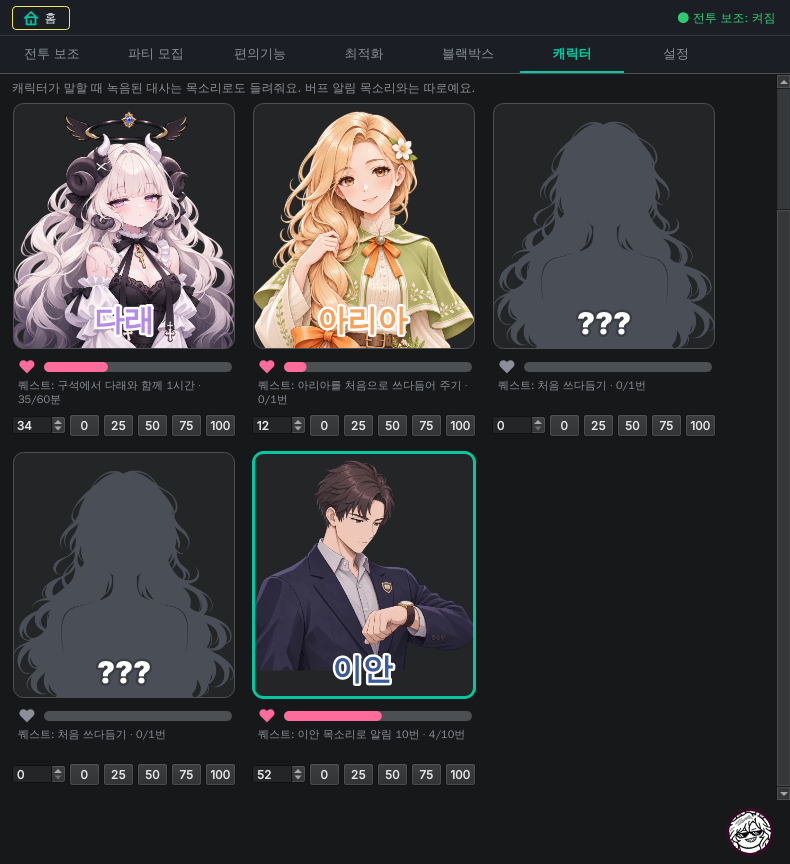
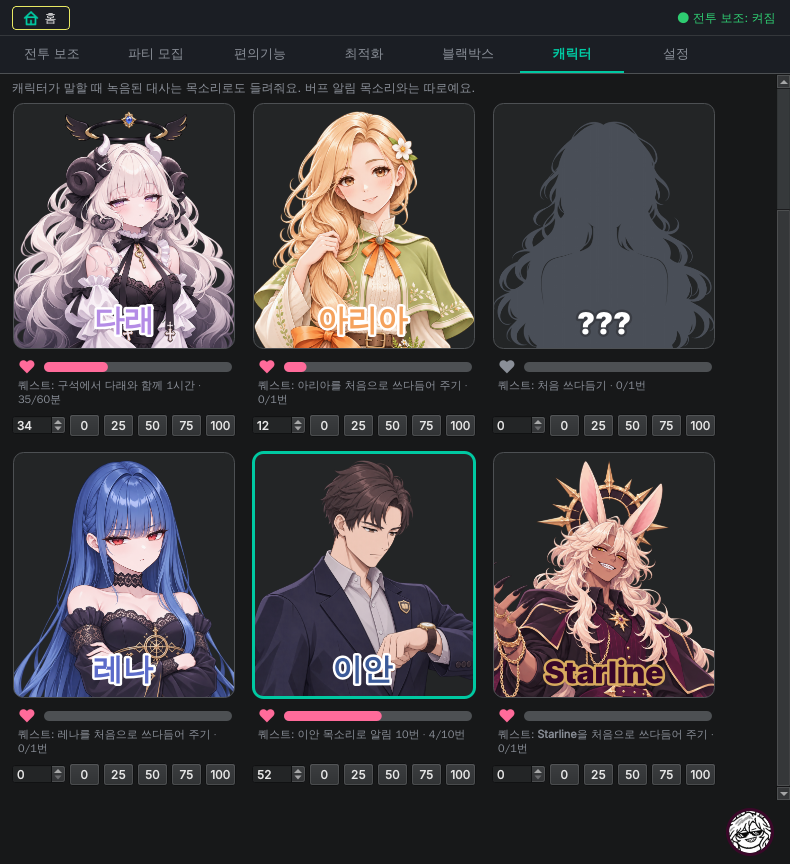
캐릭터 알파: 이안 카드를 세로 비율로 잘라 아래까지 채움
Claude-Session: https://claude.ai/code/session_01SbFuD9LBQUw7gFTz2Mmv9g

diff --git a/scripts/build_ian_frames.py b/scripts/build_ian_frames.py
@@ -79,7 +79,15 @@ EXPECTED = {"stand": 2, "watch": 4, "walk": 6, "pet": 6, "drag": 4, "fall": 2, "
 
 
 def card() -> np.ndarray:
+    """상반신이 가로형이라(폭 맞춤하면 카드 아래가 비어 보임 — 사용자 11-24 Windows) 얼굴(위 45% 알파 무게중심 x)
+    가운데로 다른 카드와 같은 세로 비율(1199:1312)로 자름(레나·Starline과 같은 방식)."""
     art = _tight(imread(ROOT / "docs/characters/assets/이안/이안_상반신.png", cv2.IMREAD_UNCHANGED))
+    h, w = art.shape[:2]
+    cw = int(round(h * 1199 / 1312))
+    if w > cw:
+        cx = float(np.where(art[: int(h * 0.45), :, 3] > 40)[1].mean())
+        x0 = int(min(max(0, cx - cw / 2), w - cw))
+        art = _tight(art[:, x0:x0 + cw])
     return scaled(art, 480 / art.shape[0])
 
 

diff --git a/tests/test_character.py b/tests/test_character.py
@@ -1687,3 +1687,15 @@ def test_starline_click_and_land_show_one_picture_at_a_time(app):
             assert len(w.layers(clock["t"])) == 1
     finally:
         w.close()
+
+
+def test_known_cards_fill_down_to_card_bottom():
+    """카드 그림(폭 맞춤·위 8px)이 카드 아래 끝까지 덮음 — 가로형 상반신이면 아래가 비어 보임(사용자 11-24 이안)."""
+    from mabinogi_addon.ui import character_tab as ct
+
+    width, bottom = ct.CARD_W - 3, 1.5 + ct.CARD_H - 3
+    for c in roster.ROSTER:
+        if not c.known:
+            continue
+        art = _img_of(ASSETS / c.card)
+        assert 1.5 + 8 + art.shape[0] * width / art.shape[1] >= bottom, c.name

diff --git a/docs/status.md b/docs/status.md
@@ -56,6 +56,7 @@
   - **이안 투아림 2차 TTS — DEV 전송(11-24, 기획 세션)**: 이안 목소리는 gen_tts.py Google(Chirp3-HD-Algieba) 생성으로 확인 → 사용자 '그대로, 투아림 2차만' → gen_tts.py에 F_TUARIM2·이안 2차 문장·`--only` 옵션. DEV(session_01SbFuD9LBQUw7gFTz2Mmv9g)에 전송.
   - **0.55.9 Windows 실측 4건 — DEV(11-24, QA 요청, 후보 45437255875 기준)**: ① 펫이 미러링 뒤 → `overlay_capture.keep_pet_front`(PetWindow 생성자 등록), 오버레이가 뜨거나 raise_overlay될 때 보이는 펫 → 커서 순으로 bring_to_front(커서가 맨 위, 숨은 펫 제외, NOACTIVATE 그대로). ②③ Starline 클릭·착지 잔상·헤일로 여러 개 = 덮기 전환(앞 그림 1.0 위에 새 그림 0→1 0.13초)이 후광 가시·자세가 다른 두 그림을 겹쳐 그린 것(시트 분리 오류 아님) → `Profile.cover=False`로 Starline만 덮기 끔(바로 바뀜). ④ 머리 크기: 키 기준 배율이 원인(불꽃 0.88~0.91·끌기 0.86·떨어지기 0.83·착지 0.85~0.88·앉아 있기 1.10 — 서 있기=1) → `build_starline_frames`가 시트마다 키로 맞춘 뒤 머리 크기 중앙값으로 다시 나눔(얼굴 맞추기 점수 0.5 이상이면 그 배율, 아니면 노란 눈동자 간격, 0.75~1.33 밖은 못 잰 것). 결과 머리(서 있기=1): 불꽃 0.96~1.03·끌기 1.00~1.01·떨어지기 0.99·착지 0.98~1.01·쓰다듬기 0.95~1.04·앉기 1.01~1.02·앉아 있기 0.99·일어나기 0.97~1.02·말하기 0.95~1.00(깜빡임은 눈 감아 못 잼), 걷기는 옆모습이라 못 잼(키 기준, 사용자 관찰로 서 있기와 같음) — 다시 그릴 프레임 없음. 대신 몸 키는 시트마다 달라짐(착지·끌기 끝 약 328 vs 서 있기 285 — 그림 자체 등신 차이). 테스트: 펫 → 커서 순서, Starline 머리 ±5%, 클릭·착지 동안 layers 한 장. 렌더 starline_pet_actions.gif 다시.
   - **잔상 — 덮기 전환 없앰(11-24, QA 요청 '서서 말할 때 손짓 잔상' + 전수 조사 ghost_survey)**: 원인 = 덮기 전환(앞 그림 1.0 위에 새 그림 0→1, 0.13초)이 포즈가 다른 두 그림을 겹쳐 그림(다래 6/14·아리아 13/23·이안 4/15·레나 1/15·Starline 11/18 쌍이 IoU<0.86, 걷기→말하기·서기↔말하기·강조·착지/일어나기/쓰다듬기 끝→서기). IoU 표 기반 대신 단순·확실한 쪽 — **모든 캐릭터에서 덮기 전환 제거**(brain.covered·Profile.cover/cover_from·COVER_SECONDS 삭제, pet_window.layers는 늘 한 장). 입만 바뀌는 건 원래도 바로. 테스트 test_every_picture_change_is_instant_no_ghost(5캐릭터 × 서서 클릭·말 4분위기·강조·대기 동작·알림·끌기→착지·쓰다듬기·구석→일어나기, 1/60초마다 layers 한 장). QA의 ghost_survey/survey.py는 brain.covered를 쓰므로 이제 덮기 쌍 0(스크립트는 docs 자료로 그대로). 렌더 talk_new_three.gif·각 캐릭터 펫 GIF 다시.
+  - **이안 카드 아래 빈 띠 — DEV(11-24, QA 반려 739e1536·후보 45440403357)**: 이안 card.png가 가로형(505×480)이라 폭 맞춤하면 그림 높이 ≈206px로 카드보다 짧았음 → `build_ian_frames.card()`가 레나·Starline처럼 얼굴(위 45% 알파 무게중심) 가운데로 1199:1312 세로 비율로 자름(438×480). 카드 그리기 코드·다른 카드 변화 없음. 테스트 test_known_cards_fill_down_to_card_bottom(모든 known 카드가 카드 아래 끝까지). 렌더 main_character_tab_ian.png(6장).
   - **원격 대사 파일 확인(11-24, 기획 세션)**: DEV가 '원격본이 있으면 앱이 원격본을 우선 — 2차 말풍선이 옛 내용일 수 있음'이라 알림 → raw.githubusercontent `mabinogi_addon-releases/main/data/characters/{dare,aria,ian,lena,starline}-lines.json` 전부 404(같은 저장소 version.json은 200 — 공개 저장소라 없는 게 맞음) → 지금은 앱 내장 대사가 쓰이므로 2차 말풍선 그대로 나옴. 나중에 원격 대사를 올릴 땐 내장 lines.json과 같은 내용으로.
   - **Starline 목소리 연결 — DEV 전송(11-24, 기획 세션)**: 사용자 녹음 12개(`장난스러운 남성/`, 파티 없음) → 실제 팩으로(설정 목록 표시·검사 반영·노트 한 줄), 말풍선은 대사집 알림 표. DEV(session_01SbFuD9LBQUw7gFTz2Mmv9g)에 전송.
   - **Starline 알파 포함(목소리 팩 자리만) — DEV 전송(11-24, 기획 세션)**: 사용자 '음성팩 들어갈 자리만 만들고 같이 알파로'. 빈 팩 `장난스러운 남성`(기본 녹음 폴백, 설정 목록엔 녹음 생길 때까지 숨김), roster 6번째·영어 이름·#3A0729 + 금 외곽선, 카드 가로형 상반신을 세로로, SD 13장 대응(대기불꽃 번갈아·팔짱 끌기·사뿐 착지·걷어내기 쓰다듬기·한 팔 들고 말하기·떠서 마법진 구석), 대사 초안 그대로(voice는 녹음 뒤). DEV(session_01SbFuD9LBQUw7gFTz2Mmv9g)에 전송.
